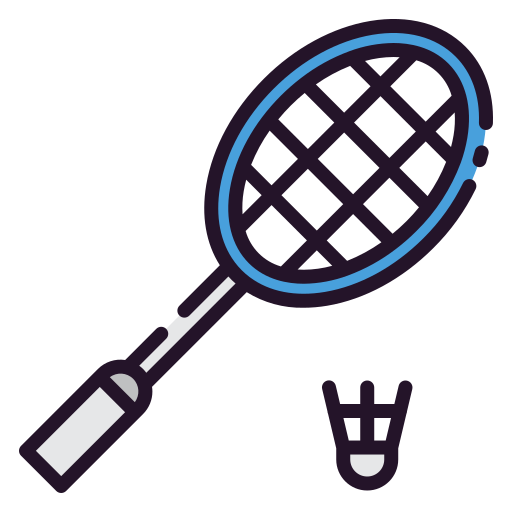
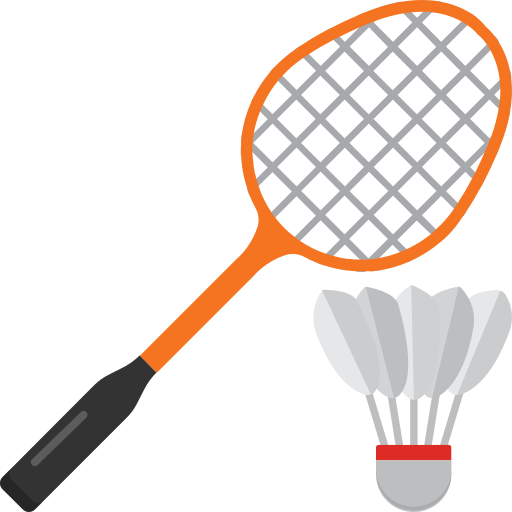
加入登入後跳轉、其他調整
修改球類選擇羽球圖片
加入場地預設時間改為當下時間

diff --git a/frontend/src/authService/login.js b/frontend/src/authService/login.js
@@ -47,28 +47,92 @@ export default function Login() {
 	const form = useRef();
 	const checkBtn = useRef();
 	const [user, setUser] = useContext(UserContext);
+	const navigate = useNavigate();
 
-	function handleLogin(e) {
+	async function handleLogin(e) {
 		e.preventDefault();
 		setMessage('');
 		setLoading(true);
 		// form.current.validateAll();
-		AuthService.login(username, password).then(
-			() => {
-				// this.props.history.push("/profile");
-				window.location.href = '/';
-			},
-			(error) => {
-				const resMessage =
-					(error.response &&
-						error.response.data &&
-						error.response.data.message) ||
-					error.message ||
-					error.toString();
-				setLoading(false);
-				setMessage(resMessage);
+		try {
+			const res = await AuthService.login(username, password);
+			console.log(res);
+			let url;
+			switch (res.data.role_id) {
+				case 1:
+					url = '/adminStadiumStatus';
+					break;
+				case 2:
+					url = '/selectSport';
+					break;
+				case 3:
+					url = '/stadiumBoard';
+					break;
+				default:
+					// 預設情況，指定一個默認的 URL
+					url = '/';
+					break;
 			}
-		);
+			window.location.href = url;
+			// navigate(url);
+		} catch (error) {
+			const resMessage =
+				(error.response &&
+					error.response.data &&
+					error.response.data.message) ||
+				error.message ||
+				error.toString();
+			setLoading(false);
+			setMessage(resMessage);
+		}
+		// }
+		try {
+			const res = await AuthService.login(username, password);
+			navigate('/');
+			// console.log(res.data.role_id);
+			// let url;
+			// switch (res.data.role_id) {
+			// 	case 1:
+			// 		url = '/adminStadiumStatus';
+			// 		break;
+			// 	case 2:改了
+			// 		url = '/selectSport';
+			// 		break;
+			// 	case 3:
+			// 		url = '/stadiumBoard';
+			// 		break;
+			// 	default:
+			// 		url = '/';
+			// 		break;
+			// }
+			// navigate(url);
+			setLoading(false);
+		} catch (error) {
+			const resMessage =
+				(error.response &&
+					error.response.data &&
+					error.response.data.message) ||
+				error.message ||
+				error.toString();
+			setLoading(false);
+			setMessage(resMessage);
+		}
+		// AuthService.login(username, password).then(
+		// 	() => {
+		// 		// this.props.history.push("/profile");
+		// 		window.location.href = '/';
+		// 	},
+		// 	(error) => {
+		// 		const resMessage =
+		// 			(error.response &&
+		// 				error.response.data &&
+		// 				error.response.data.message) ||
+		// 			error.message ||
+		// 			error.toString();
+		// 		setLoading(false);
+		// 		setMessage(resMessage);
+		// 	}
+		// );
 	}
 
 	return (

diff --git a/frontend/src/userService/joinStadium.js b/frontend/src/userService/joinStadium.js
@@ -30,7 +30,8 @@ export default function JoinStadium() {
 	const [sport, setSport] = useState(initSport ? initSport : null); // 加入預設值以防止mui警告
 	const [location, setLocation] = useState(null); // 加入預設值以防止mui警告
 	const [date, setDate] = useState(moment(new Date()).format('YYYY-MM-DD'));
-	const [time, setTime] = useState(dayjs('00:00:00', 'HH:mm:ss'));
+	const [time, setTime] = useState(dayjs()); // 目前時間
+	// const [time, setTime] = useState(dayjs().format('HH:mm:ss'));
 	const [minute, setMinute] = useState(0);
 	const [page, setPage] = useState(1);
 	const [totalPage, setTotalPage] = useState(0);
@@ -153,6 +154,19 @@ export default function JoinStadium() {
 	// 	}
 	// }, [searchParams]);
 
+	// const fetchData = useCallback(async () => {
+	// 	try {
+	// 		const res = await SearchAppointment();
+	// 		setAppointmentList(res.courts);
+	// 		setTotalPage(res.total_page);
+	// 	} catch (error) {
+	// 		console.log('Error:' + error);
+	// 	}
+	// }, []);
+
+	// useEffect(() => {
+	// 	fetchData();
+	// }, [fetchData]);
 	const fetchData = useCallback(async () => {
 		try {
 			const res = await SearchAppointment();
@@ -164,6 +178,8 @@ export default function JoinStadium() {
 	}, []);
 
 	useEffect(() => {
+		console.log(time);
+		console.log(dayjs().format('HH:mm:ss'));
 		fetchData();
 	}, [fetchData]);
 
@@ -280,7 +296,7 @@ export default function JoinStadium() {
 				</Typography>
 			</Box>
 			<Box m={0.5} sx={{ height: '70vh', overflowY: 'auto' }}>
-				<StadiumCard
+				{/* <StadiumCard
 					id={1}
 					image={pic}
 					title={'球場名稱2'}
@@ -292,7 +308,7 @@ export default function JoinStadium() {
 						'Wonu Juan',
 						[4, 8],
 					]}
-				/>
+				/> */}
 				{(appointmentList || []).map((appointment) => {
 					const DateInGMT8 = new Date(appointment.date);
 					let year = DateInGMT8.getFullYear();
@@ -308,6 +324,7 @@ export default function JoinStadium() {
 					//console.log(status);
 					return (
 						<StadiumCard
+							key={appointment.appointment_id}
 							id={appointment.appointment_id}
 							image={appointment.image_url.split('.jpg')[0] + '.jpg'}
 							title={appointment.court_name + ' - ' + appointment.location}

diff --git a/frontend/src/authService/authService.js b/frontend/src/authService/authService.js
@@ -3,7 +3,8 @@ import { UserContext } from '../UserContext';
 import { useContext } from 'react';
 import fakeUser from '../testData/fakeUser';
 
-const API_URL = 'http://localhost:3000/api/users/';
+const REGISTER_API_URL = 'http://localhost:3000/api/users/';
+const LOGIN_API_URL = 'http://localhost:3000/api/users/login';
 
 // const register = ({ username, password, name, email, phone, lineId }) => {
 const register = async ({
@@ -17,7 +18,7 @@ const register = async ({
 }) => {
 	try {
 		const response = await axios.post(
-			API_URL,
+			REGISTER_API_URL,
 			JSON.stringify({
 				line_id: lineId,
 				role_id: roleId,
@@ -39,46 +40,31 @@ const register = async ({
 	}
 };
 
-const login = (userName, password) => {
-	function delay() {
-		return new Promise(function (resolve, reject) {
-			setTimeout(function () {
-				if (
-					userName !== 'user' &&
-					userName !== 'provider' &&
-					userName !== 'admin'
-				) {
-					reject(fakeUser(userName));
-				} else {
-					resolve(fakeUser(userName));
-				}
-			}, 1000);
-		});
-	}
-
-	return axios
-		.post('http://localhost:3000/api/users/login', {
+const login = async (userName, password) => {
+	try {
+		const res = await axios.post(LOGIN_API_URL, {
 			name: userName,
 			password: password,
-		})
-		.then((res) => {
-			console.log(res);
-			const role =
-				res.data.role_id === 1
-					? 'ROLE_ADMIN'
-					: res.data.role_id === 2
-					? 'ROLE_USER'
-					: 'ROLE_PROVIDER';
-			localStorage.setItem(
-				'user',
-				JSON.stringify({
-					role: role,
-					accessToken: res.data.user_id,
-				})
-			);
-			return res;
 		});
-
+		console.log(res);
+		const role =
+			res.data.role_id === 1
+				? 'ROLE_ADMIN'
+				: res.data.role_id === 2
+				? 'ROLE_USER'
+				: 'ROLE_PROVIDER';
+		localStorage.setItem(
+			'user',
+			JSON.stringify({
+				role: role,
+				accessToken: res.data.user_id,
+			})
+		);
+		return res;
+	} catch (error) {
+		console.error('Login failed:', error.message);
+		throw error; // Re-throw the error for further analysis
+	}
 	// return axios
 	//   .post(API_URL + "signin", {
 	//     userName,

diff --git a/frontend/src/App.js b/frontend/src/App.js
@@ -129,7 +129,7 @@ export default function App() {
 								display="flex"
 								variant="h6"
 								onClick={logOut}
-								to="/login"
+								// to="/login"
 								sx={{ marginLeft: 'auto' }}>
 								Logout
 							</Button>
